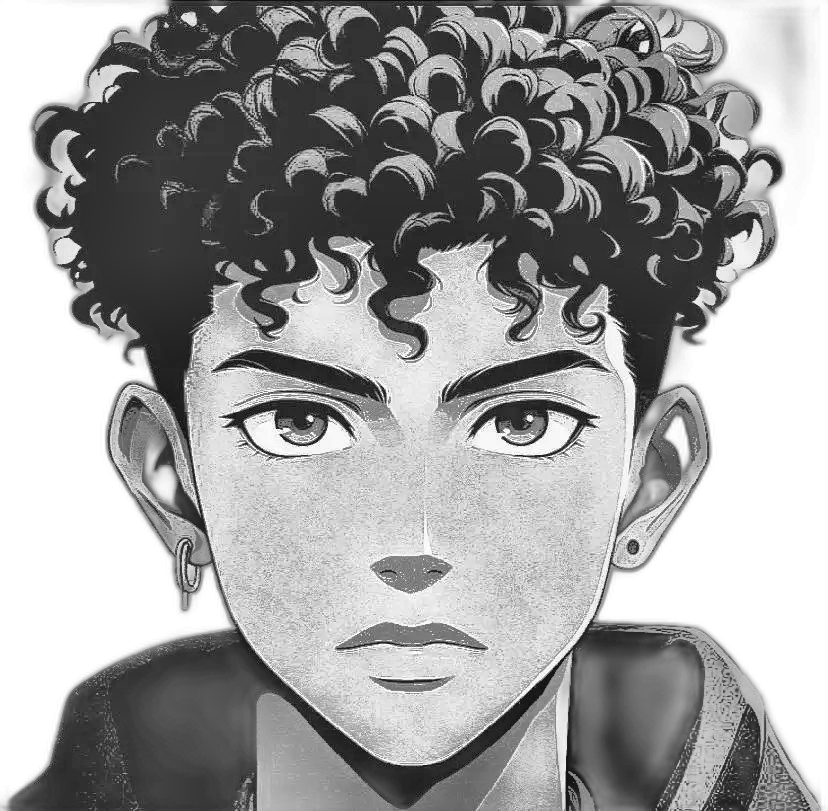
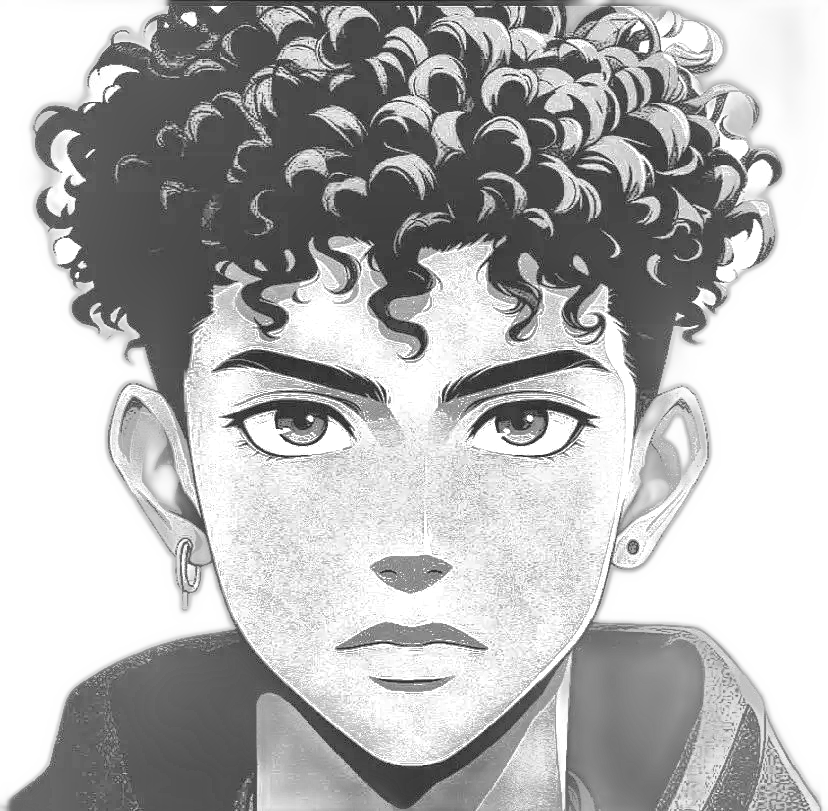
Improve ASCII portrait

diff --git a/scripts/make_ascii_svg.py b/scripts/make_ascii_svg.py
@@ -1,65 +1,150 @@
-from PIL import Image
+"""
+Convert a portrait photo into a CLEAN, monochrome ASCII-art SVG (Andrew6rant
+style: one light-gray color, subject isolated on a dark background) that "types"
+itself in like a terminal, then holds.
 
-INPUT = "source-prepped.png"
-OUTPUT = "avi-ascii.svg"
+Monochrome is deliberate -- per-character rainbow color is what makes ASCII
+portraits look noisy. One fill color + a good density ramp + high contrast (so a
+busy background washes out to blank) reads as neat and legible.
 
-RAMP = " .`:-=+*cs#%@"
-WIDTH = 100
+GitHub renders SVGs embedded via <img> and runs their SMIL animations there (JS
+does not run). Each row is revealed with a left-to-right clip wipe plus a small
+block cursor riding the wipe edge, staggered top -> bottom, so the whole
+portrait prints once and freezes.
+"""
+from PIL import Image, ImageEnhance, ImageOps, ImageFilter
+import html
+import os
+import sys
 
-img = Image.open(INPUT).convert("L")
+HERE = os.path.dirname(os.path.abspath(__file__))
+# defaults to the prepped grayscale image (see prep_photo.py), which already has
+# the background removed + local contrast applied.
+SRC = sys.argv[1] if len(sys.argv) > 1 else os.path.join(HERE, "..", "source-prepped.png")
+OUT = sys.argv[2] if len(sys.argv) > 2 else os.path.join(HERE, "..", "avi-ascii.svg")
 
-# Character cells are taller than they are wide.
-char_ratio = 0.5
-height = int(img.height / img.width * WIDTH * char_ratio)
-img = img.resize((WIDTH, height))
+COLS = 100
+ROWS = 53
+CELL_W = 8
+CELL_H = 15
+RAMP = " .`:-=+*cs#%@"  # bright(sparse) -> dark(dense); leading space clears bg
 
-pixels = img.load()
+# the prepped image already has bg removed + CLAHE local contrast, so only
+# light global tuning is needed here.
+CONTRAST = 1.05
+BRIGHTNESS = 1.0
+GAMMA = 1.18          # >1 brightens mids -> face lands in sparser chars
+SHARPEN = False
+WHITE_FLOOR = 0.80    # luminance above this is forced to blank (space)
 
-rows = []
+PAD = 20
+TITLEBAR_H = 30
+STATUS_H = 30
+ART_W = COLS * CELL_W
+ART_H = ROWS * CELL_H
+CANVAS_W = ART_W + PAD * 2
+CANVAS_H = TITLEBAR_H + ART_H + STATUS_H + PAD
 
-for y in range(height):
-    row = []
-    for x in range(WIDTH):
-        brightness = pixels[x, y]
-        index = int((255 - brightness) / 256 * len(RAMP))
-        index = min(index, len(RAMP) - 1)
-        row.append(RAMP[index])
-    rows.append("".join(row))
+BG = "#0d1117"
+BG2 = "#111722"
+FRAME = "#30363d"
+TITLE_TEXT = "#7d8590"
+INK = "#c9d1d9"      # the single ascii color (matches Andrew6rant)
+CURSOR = "#c9d1d9"
 
-line_height = 10
-svg_width = WIDTH * 7
-svg_height = height * line_height
+# ---- reveal timing (one-shot; a cursor rasters top -> bottom) -------------
+ROW_DUR = 0.11
+STAGGER = 0.11       # == ROW_DUR -> a single cursor sweeping down
 
-svg = [
-    f'<svg xmlns="http://www.w3.org/2000/svg" '
-    f'width="{svg_width}" height="{svg_height}" '
-    f'viewBox="0 0 {svg_width} {svg_height}">',
-    '<rect width="100%" height="100%" fill="white"/>',
-    '<style>',
-    '.ascii { font-family: monospace; font-size: 10px; fill: #555; }',
-    '</style>'
-]
+# ---- 1. sample the image into a COLS x ROWS grayscale grid ----------------
+im = Image.open(SRC).convert("L")               # grayscale
+if SHARPEN:
+    im = im.filter(ImageFilter.UnsharpMask(radius=2, percent=140, threshold=2))
+im = ImageEnhance.Brightness(im).enhance(BRIGHTNESS)
+im = ImageEnhance.Contrast(im).enhance(CONTRAST)
+im = im.resize((COLS, ROWS), Image.LANCZOS)
+px = im.load()
 
-for y, row in enumerate(rows):
-    escaped = (
-        row.replace("&", "&amp;")
-           .replace("<", "&lt;")
-           .replace(">", "&gt;")
+STATIC = bool(os.environ.get("STATIC"))  # emit frozen state for previews
+
+rows_txt = []
+for y in range(ROWS):
+    chars = []
+    for x in range(COLS):
+        lum = px[x, y] / 255.0
+        lum = pow(lum, GAMMA)
+        if lum >= WHITE_FLOOR:
+            chars.append(" ")
+            continue
+        idx = int((1.0 - lum) * (len(RAMP) - 1) + 0.5)
+        idx = max(0, min(len(RAMP) - 1, idx))
+        chars.append(RAMP[idx])
+    rows_txt.append("".join(chars))
+
+art_top = TITLEBAR_H + PAD * 0.35
+
+# ---- 2. assemble SVG ------------------------------------------------------
+parts = []
+parts.append(
+    f'<svg xmlns="http://www.w3.org/2000/svg" width="{CANVAS_W}" height="{CANVAS_H}" '
+    f'viewBox="0 0 {CANVAS_W} {CANVAS_H}" font-family="ui-monospace, SFMono-Regular, '
+    f'Menlo, Consolas, monospace">'
+)
+parts.append('<defs>'
+             f'<linearGradient id="bg" x1="0" y1="0" x2="0" y2="1">'
+             f'<stop offset="0" stop-color="{BG2}"/><stop offset="1" stop-color="{BG}"/>'
+             f'</linearGradient></defs>')
+
+parts.append(f'<rect width="{CANVAS_W}" height="{CANVAS_H}" rx="12" fill="url(#bg)"/>')
+parts.append(f'<rect x="0.5" y="0.5" width="{CANVAS_W-1}" height="{CANVAS_H-1}" rx="12" '
+             f'fill="none" stroke="{FRAME}" stroke-width="1"/>')
+
+parts.append(f'<line x1="0" y1="{TITLEBAR_H}" x2="{CANVAS_W}" y2="{TITLEBAR_H}" stroke="{FRAME}"/>')
+for i, dotcol in enumerate(["#ff5f56", "#ffbd2e", "#27c93f"]):
+    parts.append(f'<circle cx="{PAD + i*16}" cy="{TITLEBAR_H/2}" r="5" fill="{dotcol}"/>')
+parts.append(f'<text x="{CANVAS_W/2}" y="{TITLEBAR_H/2 + 4}" fill="{TITLE_TEXT}" font-size="12" '
+             f'text-anchor="middle">avi@github: ~$ ./portrait.sh</text>')
+
+# one <text> per row (single color -> no per-char markup, tiny file)
+font_size = CELL_H * 0.86
+for ry, line in enumerate(rows_txt):
+    y = art_top + ry * CELL_H + CELL_H * 0.74
+    row_y = art_top + ry * CELL_H
+    delay = ry * STAGGER
+    safe = html.escape(line)
+    text = (f'<text xml:space="preserve" x="{PAD}" y="{y:.1f}" fill="{INK}" '
+            f'font-size="{font_size:.1f}" textLength="{ART_W}" lengthAdjust="spacing">{safe}</text>')
+
+    if STATIC:
+        parts.append(text)
+        continue
+
+    parts.append(
+        f'<clipPath id="r{ry}"><rect x="{PAD}" y="{row_y:.1f}" height="{CELL_H}" width="0">'
+        f'<animate attributeName="width" from="0" to="{ART_W}" begin="{delay:.3f}s" '
+        f'dur="{ROW_DUR:.2f}s" fill="freeze"/></rect></clipPath>'
+    )
+    parts.append(f'<g clip-path="url(#r{ry})">{text}</g>')
+    parts.append(
+        f'<rect y="{row_y+1:.1f}" width="{CELL_W}" height="{CELL_H-2}" fill="{CURSOR}" opacity="0">'
+        f'<animate attributeName="x" from="{PAD}" to="{PAD+ART_W}" begin="{delay:.3f}s" '
+        f'dur="{ROW_DUR:.2f}s" fill="freeze"/>'
+        f'<set attributeName="opacity" to="0.85" begin="{delay:.3f}s"/>'
+        f'<set attributeName="opacity" to="0" begin="{delay+ROW_DUR:.3f}s"/></rect>'
     )
 
-    svg.append(
-        f'<text x="0" y="{(y + 1) * line_height}" '
-        f'class="ascii" opacity="0">'
-        f'{escaped}'
-        f'<animate attributeName="opacity" '
-        f'from="0" to="1" begin="{y * 0.04}s" '
-        f'dur="0.15s" fill="freeze"/>'
-        f'</text>'
-    )
+# status bar with a steady blinking cursor
+status_line_y = TITLEBAR_H + ART_H + PAD * 0.35
+status_y = status_line_y + 19
+parts.append(f'<line x1="0" y1="{status_line_y:.1f}" x2="{CANVAS_W}" y2="{status_line_y:.1f}" stroke="{FRAME}"/>')
+parts.append(f'<text x="{PAD}" y="{status_y:.1f}" fill="{TITLE_TEXT}" font-size="13">'
+             f'avi@github:~$ whoami <tspan fill="{INK}">Avi Vashishta</tspan></text>')
+parts.append(f'<rect x="{PAD+196}" y="{status_y-12:.1f}" width="8" height="14" fill="{INK}">'
+             f'<animate attributeName="opacity" values="1;1;0;0" keyTimes="0;0.5;0.51;1" '
+             f'dur="1s" repeatCount="indefinite"/></rect>')
 
-svg.append("</svg>")
-
-with open(OUTPUT, "w") as f:
-    f.write("\n".join(svg))
-
-print(f"Created {OUTPUT}")
+parts.append("</svg>")
+svg = "".join(parts)
+with open(OUT, "w") as f:
+    f.write(svg)
+print("wrote", OUT, len(svg), "bytes;", CANVAS_W, "x", CANVAS_H)

diff --git a/scripts/prep_photo.py b/scripts/prep_photo.py
@@ -1,33 +1,46 @@
-from rembg import remove
-from PIL import Image
+"""
+Prepare a portrait photo for clean ASCII conversion:
+  1. remove the background (rembg) so the subject is isolated
+  2. boost LOCAL contrast (CLAHE) so a flatly-lit face gains highlights and
+     shadows -- this is what turns a dark blob into a recognizable face
+  3. composite the subject onto pure white so the background reads as blank
+     (white -> spaces in the ascii ramp)
+
+Output: source-prepped.png (grayscale), consumed by make_ascii_svg.py.
+Run once whenever the source photo changes; the ascii SVG itself is static.
+
+    python scripts/prep_photo.py <input.jpg> [output.png]
+"""
+import os
+import sys
+
 import cv2
 import numpy as np
+from PIL import Image
+from rembg import remove
 
-input_file = "source-photo.jpg"
-output_file = "source-prepped.png"
+HERE = os.path.dirname(os.path.abspath(__file__))
+INP = sys.argv[1] if len(sys.argv) > 1 else os.path.join(HERE, "..", "source-photo.jpg")
+OUT = sys.argv[2] if len(sys.argv) > 2 else os.path.join(HERE, "..", "source-prepped.png")
 
-# Remove background
-with open(input_file, "rb") as f:
-    input_data = f.read()
+# 1. cut out the subject
+cut = remove(Image.open(INP).convert("RGBA"))
+rgb = np.array(cut.convert("RGB"))
+alpha = np.array(cut.split()[-1])                 # 0 = background
 
-output_data = remove(input_data)
+# 2. local-contrast the luminance (CLAHE)
+gray = cv2.cvtColor(rgb, cv2.COLOR_RGB2GRAY)
+clahe = cv2.createCLAHE(clipLimit=2.6, tileGridSize=(8, 8))
+gray = clahe.apply(gray)
 
-with open("temp.png", "wb") as f:
-    f.write(output_data)
+# a touch of global lift so the face sits in the sparse end of the ramp
+gray = cv2.convertScaleAbs(gray, alpha=1.05, beta=18)
 
-# Open image
-img = Image.open("temp.png").convert("RGBA")
+# 3. paste onto white using the alpha mask (feathered a hair to avoid a halo)
+mask = (alpha.astype(np.float32) / 255.0)
+mask = cv2.GaussianBlur(mask, (0, 0), 1.0)
+out = gray.astype(np.float32) * mask + 255.0 * (1.0 - mask)
+out = np.clip(out, 0, 255).astype(np.uint8)
 
-# White background
-background = Image.new("RGBA", img.size, "white")
-background.alpha_composite(img)
-gray = background.convert("L")
-
-# Improve local contrast
-arr = np.array(gray)
-clahe = cv2.createCLAHE(clipLimit=2.0, tileGridSize=(8, 8))
-arr = clahe.apply(arr)
-
-Image.fromarray(arr).save(output_file)
-
-print(f"Created {output_file}")
+Image.fromarray(out, mode="L").save(OUT)
+print("wrote", OUT, out.shape)
